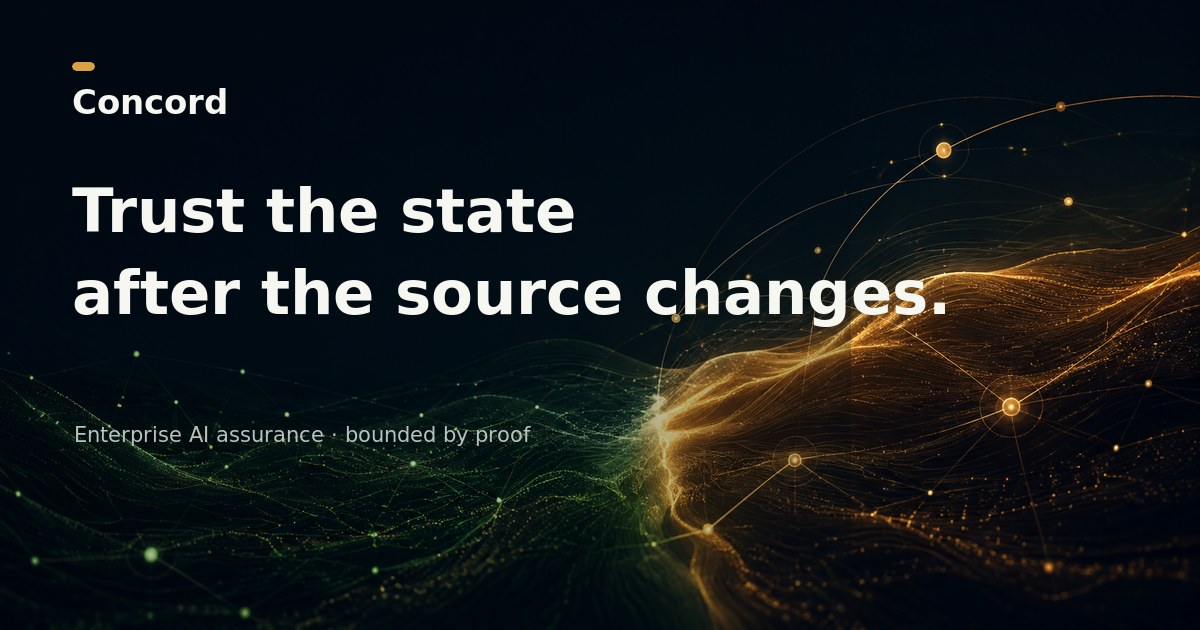
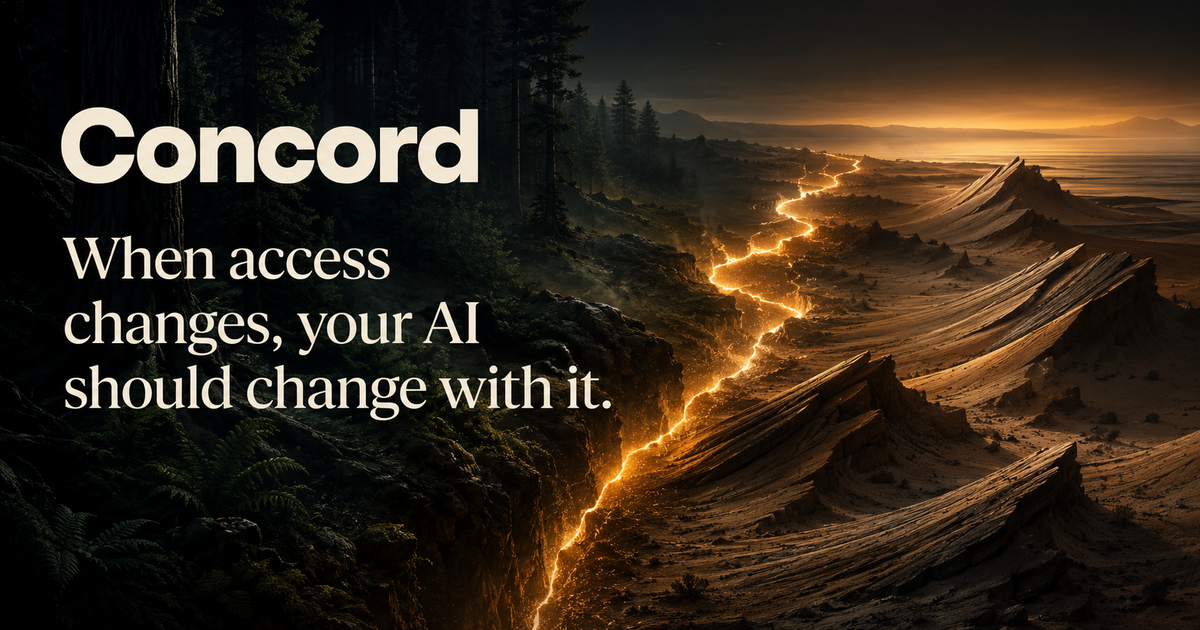
Unify commercial routes and add State Rift social preview

diff --git a/app/globals.css b/app/globals.css
@@ -373,3 +373,33 @@ button { color: inherit; }
   .terrain-flow i,.rift-depth i,.journey-current i,.scroll-cue i { animation: none !important; }
   .reveal-on-scroll { opacity: 1; transform: none; transition: none; }
 }
+
+/* State Rift continuity across commercial and product routes */
+.commercial-page .commercial-header { min-height: 88px; color: #f4efe6; background: rgba(7,16,14,.94); border-color: rgba(255,255,255,.12); }
+.commercial-page .commercial-brand .brand-glyph,.commercial-page .commercial-workspace-link span { color: #f2b45f; }
+.commercial-page .commercial-header nav { color: #9da7a1; }
+.commercial-page .commercial-header nav a:hover,.commercial-page .commercial-header nav a.active { color: #fff9ed; border-color: #f2b45f; }
+.commercial-page .commercial-workspace-link { color: #e8e6de; }
+.commercial-page .commercial-header::after { content: "State assurance"; position: absolute; left: max(4vw,24px); bottom: 9px; color: rgba(255,255,255,.3); font-size: 7px; font-weight: 800; letter-spacing: .18em; text-transform: uppercase; }
+.commercial-page .commercial-footer { background: #07100e; }
+.commercial-page .commercial-eyebrow { color: #b96838; }
+.commercial-page .commercial-lead { font-size: clamp(20px,1.7vw,26px); }
+
+.commercial-page .pricing-hero,.commercial-page .value-hero,.commercial-page .intel-hero,.commercial-page .workspace-top { isolation: isolate; background: radial-gradient(circle at 78% 24%,rgba(210,116,62,.25),transparent 20%),linear-gradient(145deg,#07100e 0,#13271f 48%,#4f2e23 100%); }
+.commercial-page .pricing-hero::after,.commercial-page .value-hero::after,.commercial-page .intel-hero::after,.commercial-page .workspace-top::after { content: ""; position: absolute; z-index: -1; inset: 34% -8% -28% 34%; background: linear-gradient(155deg,#93583a,#2a2f26 53%,#07100e); clip-path: polygon(0 48%,15% 31%,29% 44%,44% 14%,60% 40%,74% 21%,100% 46%,100% 100%,0 100%); opacity: .72; pointer-events: none; }
+.commercial-page .value-hero,.commercial-page .intel-hero,.commercial-page .workspace-top { position: relative; overflow: hidden; }
+.commercial-page .value-hero > *,.commercial-page .intel-hero > *,.commercial-page .workspace-top > * { position: relative; z-index: 2; }
+.commercial-page .value-hero::before,.commercial-page .intel-hero::before,.commercial-page .workspace-top::before { content: ""; position: absolute; z-index: -1; right: 12%; top: 12%; width: clamp(170px,20vw,300px); aspect-ratio: 1; border-radius: 50%; background: radial-gradient(circle at 42% 38%,#f3bd70,#ce6f42 58%,#863f2c); box-shadow: 0 0 100px rgba(210,116,62,.3); opacity: .75; }
+.commercial-page .pricing-orb { border-radius: 47% 53% 39% 61%; border-color: rgba(242,180,95,.3); background: rgba(7,16,14,.55); backdrop-filter: blur(16px); box-shadow: 0 0 0 55px rgba(242,180,95,.026),0 0 0 110px rgba(242,180,95,.015),0 35px 90px rgba(0,0,0,.28); transform: rotate(-7deg); }
+.commercial-page .pricing-orb > * { transform: rotate(7deg); }
+.commercial-page .value-hero > aside,.commercial-page .intel-hero > aside,.commercial-page .workspace-top aside { border-radius: 42px 10px 10px 10px; border-color: rgba(242,180,95,.25); background: rgba(7,16,14,.7); backdrop-filter: blur(18px); }
+.commercial-page .pricing-definition article,.commercial-page .scope-strip article { min-height: 180px; }
+.commercial-page .calculator-intro h2,.commercial-page .package-title h2,.commercial-page .intel-title h2,.commercial-page .onboarding-steps h2 { letter-spacing: -.06em; }
+.commercial-page .calculator-shell,.commercial-page .value-chart,.commercial-page .efficiency-card,.commercial-page .trace-table,.commercial-page .onboarding-form,.commercial-page .workspace-apps { box-shadow: 0 26px 70px rgba(48,35,22,.09); }
+
+@media (max-width: 620px) {
+  .commercial-page .commercial-header { min-height: 74px; }
+  .commercial-page .commercial-header::after { display: none; }
+  .commercial-page .pricing-hero,.commercial-page .value-hero,.commercial-page .intel-hero { min-height: 650px; }
+  .commercial-page .pricing-hero::after,.commercial-page .value-hero::after,.commercial-page .intel-hero::after,.commercial-page .workspace-top::after { inset: 42% -35% -20% 2%; }
+}

diff --git a/docs/ui-ux-quality-review.md b/docs/ui-ux-quality-review.md
@@ -1,0 +1,21 @@
+# Concord UI/UX quality review
+
+Date: 2026-08-20  
+Direction: **The State Rift**  
+Score: **21/22** (acceptance threshold: 19/22; no zero scores)
+
+| Dimension | Score | Implementation evidence |
+| --- | ---: | --- |
+| Product clarity | 2 | The hero names the audience, failure, and outcome in the headline and first paragraph. |
+| Narrative structure | 2 | The page moves from stale AI state to observe, reconcile, prove, product evidence, value, integrations, and action. |
+| Original art direction | 2 | Forest roots represent authority, shifting mineral terrain represents derivative state, and the amber fault line represents Concord's control path. |
+| Visual hierarchy | 2 | Oversized editorial headlines, constrained reading widths, section numbering, and high-contrast proof objects create a clear scan path. |
+| Purposeful motion | 2 | Scroll and pointer transforms express depth; signal motion visualizes propagation; reveal motion supports section orientation. |
+| Interaction usability | 2 | Existing simulation, filters, forms, navigation, pricing calculator, focus states, and touch controls remain operational. |
+| Copy quality | 2 | Marketing copy was rewritten around specific systems, actions, audiences, and evidence without generic AI claims. |
+| Responsive design | 1 | Dedicated tablet and mobile compositions are implemented, including a simplified proof path and non-sticky journey; no browser-based visual QA was requested. |
+| Accessibility | 2 | Semantic headings, labelled regions, keyboard focus, decorative-image alternatives, live regions, and reduced-motion behavior are present. |
+| Performance resilience | 2 | The environment is primarily code-native CSS; motion uses opacity and transforms; the only primary bitmap is delivered through the framework image pipeline. |
+| Implementation integrity | 2 | Production build, lint, and all 15 automated tests pass; existing product and commercial routes remain in place. |
+
+The redesign clears the skill's completion threshold. The remaining optional verification step is hands-on visual QA at representative desktop and mobile viewport sizes.
